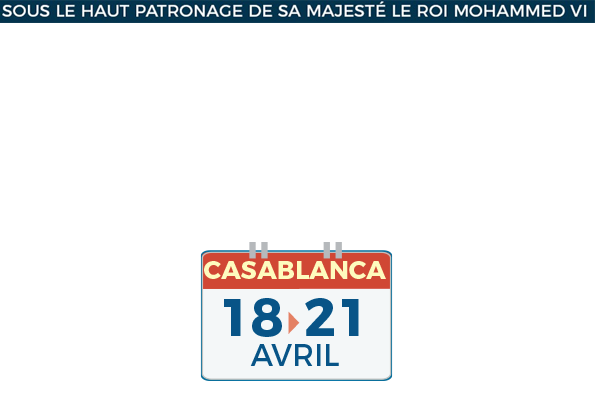
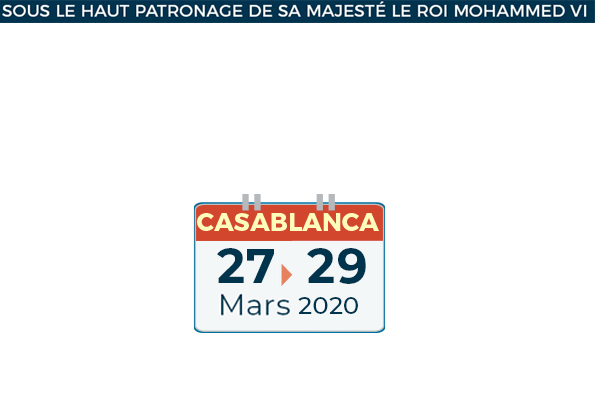
qf

Changed region(s): [[0.3025, 0.4752, 0.6655, 0.9505]]

diff --git a/index.html b/index.html
@@ -582,7 +582,7 @@ section.section {
                   <h5 style="margin-bottom:0px;"> Adresse : </h5>
                   <p> Rue Doukalla, Casablanca 20030 </p>
                   <h5 style="margin-bottom:0px;"> Horaires : </h5>
-                  <p> Jeudi 18 à Dimanche 21 Avril 2019 de 9h30 à 19h00</p>
+                  <p> Vendredi 27 à Dimanche 29 Mars 2020 de 9h30 à 19h00</p>
                   <h5 style="margin-bottom:0px;"> Tel : </h5>
                   <p> (212) 522 861 234 </p>
 
